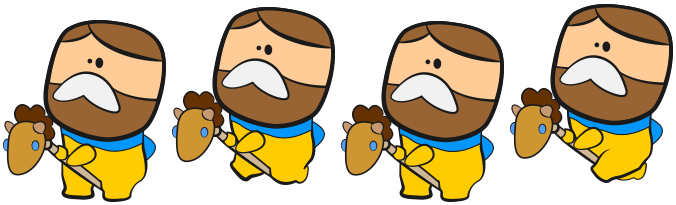
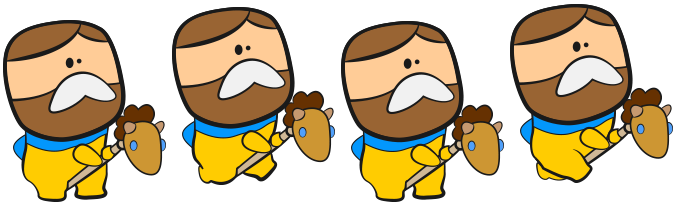
new spritesheet image + update gravity's animation handling

diff --git a/js/physicsManager.js b/js/physicsManager.js
@@ -28,6 +28,14 @@ function setPhysicsProtos() {
 
         if((this.positionY + ((this.velocityY + gravFx) * delta)) > ground) {
             this.velocityY = 0;
+
+            if(this.hang) {
+                if(this.settings && this.settings.spritesheet) {
+                    this.settings.spritesheet.pos = 2;
+                    this.settings.spritesheet.next = this.settings.spritesheet.timestep;
+                }
+            }
+
             this.hang = false;
             gravFx = 0;
             this.pos = {

diff --git a/js/utils/filename.js b/js/utils/filename.js
@@ -116,7 +116,7 @@ function getSpritesheetDate(spriteSettings) {
     let frame = spriteParams[1];
     let pos = '0';
     let steps = 0;
-    let timestep = '1000x4';
+    let timestep = '1000x5';
 
     if(frame.includes('p')) {
         frame = frame.split('p')[0];
